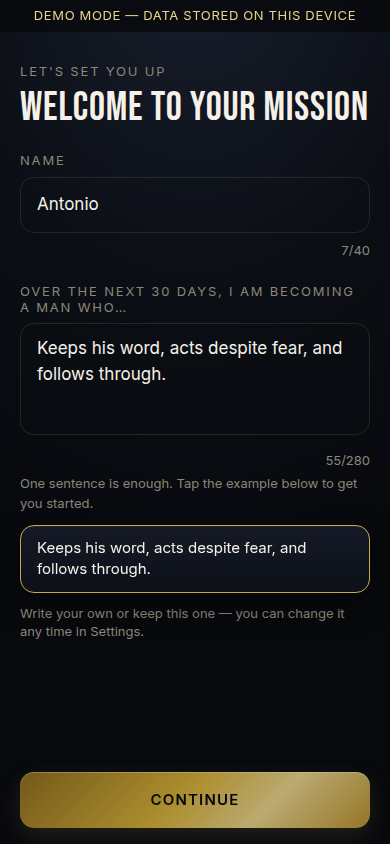
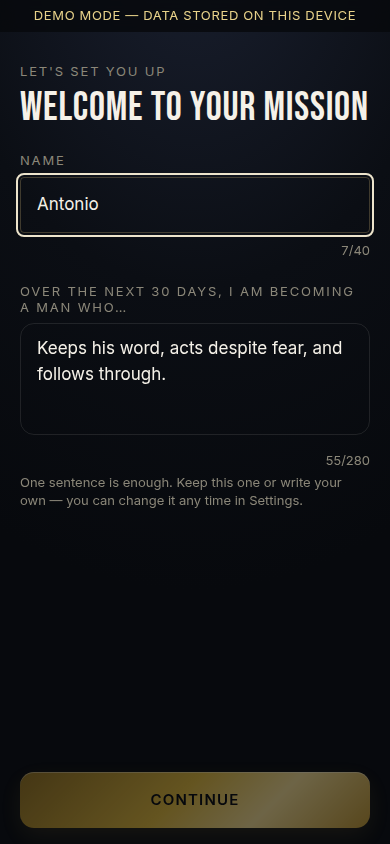
He picks the fragrance off the shelf, not out of a menu
A Mission recommended a value and gave no way to wear a different one. The
old answer — pills behind a "use a different fragrance" link — was the thing
we deleted for being clutter, so it isn't the answer.

All three bottles are simply on the card. The one the Mission calls for is
picked up: full size, lit, standing in its own pool of light, named, and
carrying its spray line. The other two stand back at 45%, one tap away. A
gold dot under the recommended bottle stays put whatever he picks, so the
suggestion survives the override, and the eyebrow tells him where he is —
WEAR THIS FOR MISSION, or YOUR CHOICE · TAP TO SWITCH BACK. The card's edge,
glow, name and spray line all follow the bottle he is holding.

Nothing is hidden, nothing opens, and accepting the recommendation still
costs zero taps. The one-off Action screen uses the same shelf, so the three
text pills are gone and both screens speak the same language.

Onboarding: the example chip under the identity box is gone. The sentence is
already in the box, so offering him a copy of it was noise — one line now
says keep it or write your own, and that it lives in Settings.

Claude-Session: https://claude.ai/code/session_01WVgj5E7JPb9xgPaaNWkVw6

diff --git a/src/components/FragranceCue.tsx b/src/components/FragranceCue.tsx
@@ -1,80 +1,135 @@
+"use client";
+
 import BottleVisual from "@/components/BottleVisual";
-import { TRIGGERS, TRIGGER_ACCENTS } from "@/content/triggers";
+import { TRIGGERS, TRIGGER_ACCENTS, TRIGGER_ORDER } from "@/content/triggers";
 import type { Trigger } from "@/lib/data/types";
 import { cn } from "@/lib/utils";
 
 /**
- * The fragrance a Mission calls for — the bottle itself, not a line of text.
+ * The fragrance for this Mission — the shelf, not a dropdown.
+ *
+ * All three bottles are on screen. The one the Mission calls for is picked
+ * up: full size, lit, named, carrying the spray instruction. The other two
+ * stand back, dimmed, one tap away. So the recommendation is obvious and
+ * changing it costs nothing — no picker to open, no link to find, and
+ * nothing to read before he understands it.
  *
  * It also carries the T of S.T.A.R. When the ritual screen was folded away,
- * "spray it and recall a moment you lived this" lost its home; this is where
- * it belongs, on the screen he is looking at while he sprays.
- *
- * The bottle stands slightly proud of the card with its own pool of light
- * beneath it, so the product reads as an object on a shelf rather than an
- * icon in a row.
+ * "spray it and recall a moment you lived this" lost its home; it belongs on
+ * the screen he is looking at while he sprays.
  */
 export default function FragranceCue({
-  trigger,
+  value,
+  onChange,
+  recommended,
   className,
 }: {
-  trigger: Trigger;
+  value: Trigger;
+  onChange: (next: Trigger) => void;
+  /** The Mission's suggestion. Omitted for a one-off Action. */
+  recommended?: Trigger;
   className?: string;
 }) {
-  const meta = TRIGGERS[trigger];
-  const tone = TRIGGER_ACCENTS[trigger];
+  const meta = TRIGGERS[value];
+  const tone = TRIGGER_ACCENTS[value];
+  const onRecommendation = recommended !== undefined && value === recommended;
 
   return (
     <div
       className={cn(
-        "glass relative flex items-stretch gap-4 overflow-hidden rounded-[20px] py-4 pr-5 pl-4",
+        "glass relative overflow-hidden rounded-[20px] px-4 pt-4 pb-5",
         className,
       )}
       style={{
         boxShadow: `inset 0 1px 0 rgba(255,255,255,.06), 0 10px 30px rgba(0,0,0,.35), 0 0 40px ${tone.glow}`,
       }}
     >
-      {/* The value's own colour down the edge. */}
+      {/* The chosen value's colour down the edge and washing the corner. */}
       <span
         aria-hidden
-        className="absolute top-0 bottom-0 left-0 w-[2px]"
+        className="absolute top-0 bottom-0 left-0 w-[2px] transition-colors duration-300"
         style={{
           background: tone.color,
           boxShadow: tone.edge ? `1px 0 0 ${tone.edge}` : undefined,
         }}
       />
-      {/* A wash of that colour behind the bottle, falling off to nothing. */}
       <span
         aria-hidden
-        className="pointer-events-none absolute -top-6 -left-6 h-40 w-40 rounded-full"
+        className="pointer-events-none absolute -top-10 -left-10 h-48 w-48 rounded-full"
         style={{
           background: `radial-gradient(circle, ${tone.glow} 0%, transparent 68%)`,
         }}
       />
 
-      <div className="relative flex w-[62px] shrink-0 items-end justify-center">
-        <BottleVisual trigger={trigger} size={54} />
-        {/* The pool of light the bottle stands in. */}
-        <span
-          aria-hidden
-          className="absolute bottom-0 left-1/2 h-[7px] w-[52px] -translate-x-1/2 rounded-full"
-          style={{
-            background: `radial-gradient(ellipse, ${tone.glow} 0%, transparent 72%)`,
-          }}
-        />
+      <div
+        role="radiogroup"
+        aria-label="Which fragrance are you wearing?"
+        className="relative flex items-end justify-center gap-6"
+      >
+        {TRIGGER_ORDER.map((trigger) => {
+          const chosen = trigger === value;
+          const glow = TRIGGER_ACCENTS[trigger].glow;
+          return (
+            <button
+              key={trigger}
+              type="button"
+              role="radio"
+              aria-checked={chosen}
+              aria-label={TRIGGERS[trigger].name.toLowerCase()}
+              onClick={() => onChange(trigger)}
+              className={cn(
+                "relative flex flex-col items-center transition-all duration-300",
+                chosen ? "opacity-100" : "opacity-45 hover:opacity-80",
+              )}
+            >
+              <span className="relative flex items-end justify-center">
+                <BottleVisual trigger={trigger} size={chosen ? 56 : 38} />
+                {/* The pool of light the chosen bottle stands in. */}
+                <span
+                  aria-hidden
+                  className="absolute bottom-0 left-1/2 h-[7px] -translate-x-1/2 rounded-full transition-opacity duration-300"
+                  style={{
+                    width: chosen ? 54 : 36,
+                    opacity: chosen ? 1 : 0,
+                    background: `radial-gradient(ellipse, ${glow} 0%, transparent 72%)`,
+                  }}
+                />
+              </span>
+              {/* Which one the Mission asks for, whatever he picks. */}
+              <span
+                aria-hidden
+                className={cn(
+                  "mt-2 block h-1 w-1 rounded-full",
+                  trigger === recommended
+                    ? "bg-[var(--gold-500)]"
+                    : "bg-transparent",
+                )}
+              />
+            </button>
+          );
+        })}
       </div>
 
-      <div className="relative min-w-0 flex-1 self-center">
-        <p className="eyebrow text-ink-2">WEAR THIS FOR MISSION</p>
+      <div className="relative mt-3 text-center">
+        <p className="eyebrow text-ink-2">
+          {recommended === undefined
+            ? "CHOOSE YOUR FRAGRANCE"
+            : onRecommendation
+              ? "WEAR THIS FOR MISSION"
+              : "YOUR CHOICE · TAP TO SWITCH BACK"}
+        </p>
+        {/* Keyed so the line remounts on a switch: iOS Safari splices text
+            that changes in place inside a backdrop-filtered card. */}
         <p
+          key={value}
           className="font-display mt-1.5 text-[26px] leading-none"
           style={{
-            color: trigger === "commitment" ? "var(--ink-0)" : tone.color,
+            color: value === "commitment" ? "var(--ink-0)" : tone.color,
           }}
         >
           {meta.name}
         </p>
-        <p className="mt-2 text-[13px] leading-snug text-ink-1">
+        <p key={`${value}-line`} className="mt-2 text-[13px] leading-snug text-ink-1">
           {meta.starRecall}
         </p>
       </div>

diff --git a/src/app/(app)/missions/[number]/page.tsx b/src/app/(app)/missions/[number]/page.tsx
@@ -20,7 +20,7 @@ import { TRIGGERS } from "@/content/triggers";
 import { track } from "@/lib/analytics";
 import { store, useAppData } from "@/lib/data/store";
 import { compilePersonalCode } from "@/lib/personalCode";
-import { PROOF_TEXT_MAX } from "@/lib/data/types";
+import { PROOF_TEXT_MAX, type Trigger } from "@/lib/data/types";
 import {
   MISSION_COUNT,
   computeStats,
@@ -54,6 +54,8 @@ function MissionDetailInner({
     : undefined;
 
   const [text, setText] = useState("");
+  // The Mission recommends; he decides. Null means he has not overridden it.
+  const [chosenTrigger, setChosenTrigger] = useState<Trigger | null>(null);
   const [photo, setPhoto] = useState<string | null>(null);
   const [pending, setPending] = useState(false);
   const [justLogged, setJustLogged] = useState(false);
@@ -94,7 +96,8 @@ function MissionDetailInner({
 
   const row = structuredMissionRow(missions, def.number);
   const done = row?.status === "completed";
-  const trigger = def.recommendedTrigger;
+  const trigger: Trigger =
+    row?.trigger ?? chosenTrigger ?? def.recommendedTrigger;
   const valueName = TRIGGERS[trigger].name;
 
   const personalCode = def.showPersonalCode
@@ -108,7 +111,7 @@ function MissionDetailInner({
     setPending(true);
     try {
       await store.logProof({
-        trigger: def.recommendedTrigger,
+        trigger,
         action_text: entry.slice(0, PROOF_TEXT_MAX),
         action_category: "mission",
         mission_number: def.number,
@@ -126,7 +129,7 @@ function MissionDetailInner({
       }
       track("mission_action_completed", {
         missionNumber: def.number,
-        selectedTrigger: def.recommendedTrigger,
+        selectedTrigger: trigger,
         timeSinceMissionOpened: Date.now() - openedAt.current,
       });
       if (photo) track("proof_photo_added", { missionNumber: def.number });
@@ -260,7 +263,12 @@ function MissionDetailInner({
         />
       )}
 
-      <FragranceCue trigger={trigger} className="mt-7" />
+      <FragranceCue
+        value={trigger}
+        recommended={def.recommendedTrigger}
+        onChange={setChosenTrigger}
+        className="mt-7"
+      />
 
       {personalCode && (
         <GlassCard className="mt-5">

diff --git a/src/app/action/declare/page.tsx b/src/app/action/declare/page.tsx
@@ -2,17 +2,16 @@
 
 import { useRouter, useSearchParams } from "next/navigation";
 import { Suspense, useRef, useState } from "react";
+import FragranceCue from "@/components/FragranceCue";
 import NavAction from "@/components/NavAction";
 import Button from "@/components/ui/Button";
-import Eyebrow, { AccentDot } from "@/components/ui/Eyebrow";
 import Field from "@/components/ui/Field";
 import Headline from "@/components/ui/Headline";
 import { useToast } from "@/components/ui/Toast";
-import { TRIGGERS, TRIGGER_ORDER } from "@/content/triggers";
+import { TRIGGERS } from "@/content/triggers";
 import { track } from "@/lib/analytics";
 import { store } from "@/lib/data/store";
 import { PROOF_TEXT_MAX, type Trigger } from "@/lib/data/types";
-import { cn } from "@/lib/utils";
 
 function isTrigger(value: string | null): value is Trigger {
   return value === "honor" || value === "courage" || value === "commitment";
@@ -89,29 +88,11 @@ function DeclareInner() {
         with everything else.
       </p>
 
-      <Eyebrow tone="gold" className="mt-7">
-        WHICH VALUE?
-      </Eyebrow>
-      <div className="mt-3 flex gap-2" role="radiogroup" aria-label="Which value?">
-        {TRIGGER_ORDER.map((value) => (
-          <button
-            key={value}
-            type="button"
-            role="radio"
-            aria-checked={trigger === value}
-            onClick={() => setTrigger(value)}
-            className={cn(
-              "glass flex min-h-12 flex-1 items-center justify-center gap-2 rounded-[14px] px-2 text-[13px] tracking-[0.04em] uppercase",
-              trigger === value
-                ? "border-[var(--gold-500)] text-ink-0"
-                : "text-ink-2",
-            )}
-          >
-            <AccentDot trigger={value} />
-            {TRIGGERS[value].name}
-          </button>
-        ))}
-      </div>
+      <FragranceCue
+        value={trigger}
+        onChange={setTrigger}
+        className="mt-7"
+      />
 
       <div className="mt-7">
         <Field

diff --git a/src/app/onboarding/page.tsx b/src/app/onboarding/page.tsx
@@ -11,7 +11,6 @@ import Headline from "@/components/ui/Headline";
 import { useToast } from "@/components/ui/Toast";
 import { track } from "@/lib/analytics";
 import { store, useAppData } from "@/lib/data/store";
-import { cn } from "@/lib/utils";
 
 /**
  * The box opens with this sentence already in it — real, editable text, not
@@ -159,27 +158,11 @@ export default function OnboardingPage() {
             />
           </div>
 
-          <p className="mt-1 text-[13px] text-ink-2">
-            One sentence is enough. Tap the example below to get you started.
-          </p>
-          <div className="mt-3">
-            <button
-              type="button"
-              onClick={() => setIdentity(IDENTITY_EXAMPLE)}
-              className={cn(
-                "glass block w-full rounded-[14px] px-4 py-3 text-left text-[15px] leading-snug",
-                identity === IDENTITY_EXAMPLE
-                  ? "border-[var(--gold-500)] text-ink-0"
-                  : "text-ink-1",
-              )}
-            >
-              {IDENTITY_EXAMPLE}
-            </button>
-          </div>
-
-          <p className="mt-3 text-[13px] leading-snug text-ink-2">
-            Write your own or keep this one — you can change it any time in
-            Settings.
+          {/* The sentence is already in the box, so there is nothing to offer
+              him a copy of — one line is all this needs. */}
+          <p className="mt-1 text-[13px] leading-snug text-ink-2">
+            One sentence is enough. Keep this one or write your own — you can
+            change it any time in Settings.
           </p>
 
           <BottomActions className="mt-8">

diff --git a/docs/HANDOFF.md b/docs/HANDOFF.md
@@ -19,7 +19,7 @@ states. The Vivid Vision is archived; its replacement is the compiled, printable
 
 - Owner: Antonio Centeno (product decisions). Team contact: Yuri.
 - Repo: https://github.com/aiexecutionaccelerator/mfapp (branch `main`)
-- Version: 2.2.1 (one input, one click)
+- Version: 2.3.0 (one input, one click)
 
 ## Architecture facts that matter
 
@@ -77,8 +77,10 @@ opens on the Missions themselves; `/home` redirects to `/missions`.
   `SHOW ALL 30 MISSIONS` toggle, one `ONE-OFF ACTION` row at the bottom.
   Statuses are Complete and Not Started — nothing else.
 - `/missions/[number]` — ONE reusable template: `MISSION N` + title, the why
-  in Antonio's voice, optional collapsed video, `RECOMMENDED: <VALUE>`
-  (shown, never chosen), one field, one button. Submitting calls
+  in Antonio's voice, optional collapsed video, the FragranceCue shelf (all
+  three bottles, the recommended one picked up and lit, one tap to wear a
+  different one — the gold dot always marks what the Mission suggests), one
+  field, one button. Submitting calls
   `store.logProof` once; for the Personal Code Missions (m8–m13, m30) the same
   sentence is also written to `lesson_responses`, which is what keeps
   `/personal-code` compiling. Missions 7 and 19 also take an optional photo.
